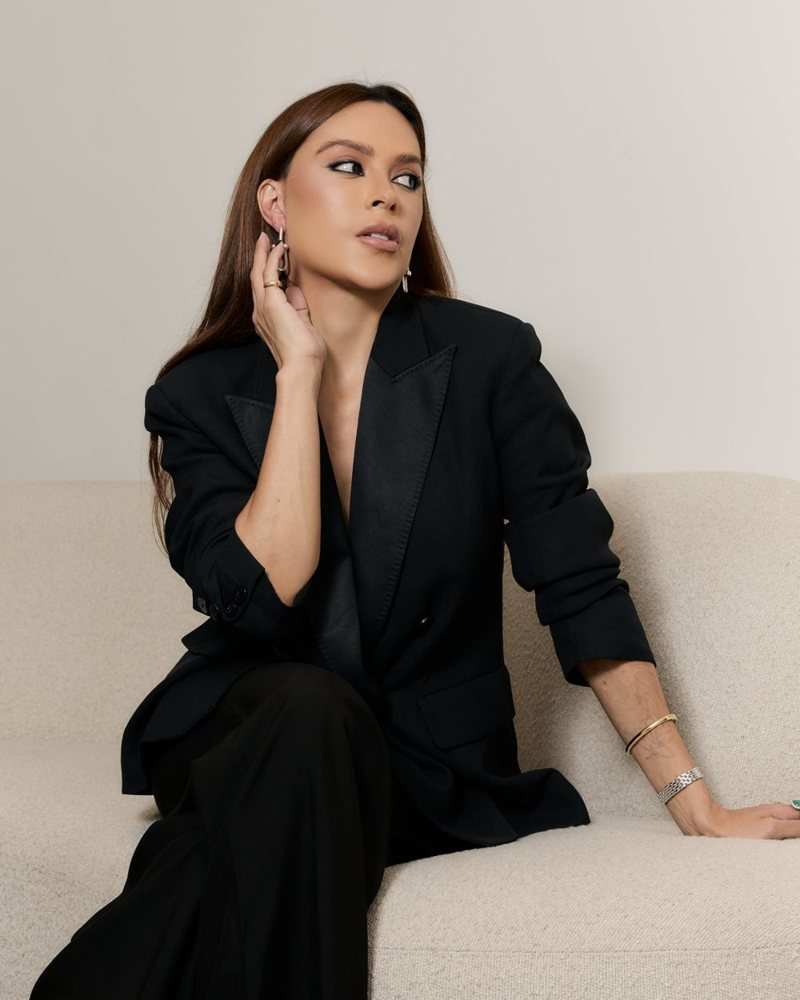
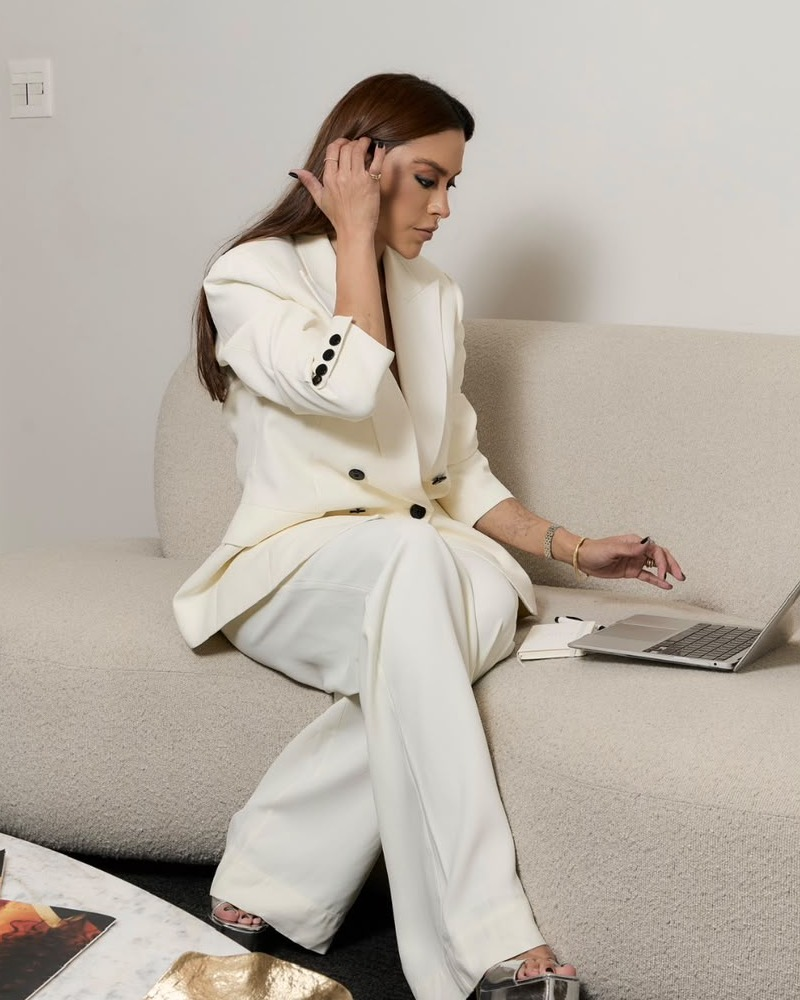
Links: cards levam às páginas dos produtos, consultoria com foto nova e 1 ou 2 encontros, WhatsApp e área de membros

diff --git a/index.html b/index.html
@@ -4,7 +4,7 @@
 <meta charset="utf-8">
 <meta name="viewport" content="width=device-width, initial-scale=1, viewport-fit=cover">
 <title>Vanessa Ferreira · Método Vértice</title>
-<meta name="description" content="Vértice Vox, Vértice Start e Box de Consultoria com Vanessa Ferreira.">
+<meta name="description" content="Vértice Vox, Vértice Start (curso de vendas para a área da beleza) e Box de Consultoria com Vanessa Ferreira.">
 <meta name="theme-color" content="#F6F1EA">
 <link rel="icon" href="favicon.png">
 <link rel="preconnect" href="https://fonts.googleapis.com">
@@ -16,13 +16,13 @@
 <script>
 const CONFIG = {
   links: {
-    vox:          "https://pay.kiwify.com.br/8AHzihk",   // Vértice Vox · Anual (R$ 97/ano)
-    start:        "https://lpvanessa.vercel.app/",       // página de vendas do Vértice Start
-    consultoria1: "https://pay.kiwify.com.br/qoEN0tP",   // Box de Consultoria · 1 sessão (R$ 1.997)
-    consultoria3: "https://pay.kiwify.com.br/sJmDqPg"    // Box de Consultoria · 3 sessões (R$ 2.997)
+    vox:         "https://verticevox.vercel.app",     // página do Vértice Vox
+    start:       "https://lpvanessa.vercel.app",      // página de vendas do Vértice Start
+    consultoria: "https://boxconsuloria.vercel.app",  // página do Box de Consultoria
+    membros:     "https://members.kiwify.com/?club=69885ccc-2843-47e7-b2cb-986d9aeded2a"  // área de membros
   },
   instagram: "https://instagram.com/",  // @ da Vanessa
-  whatsapp:  "https://wa.me/55SEUNUMERO",
+  whatsapp:  "https://wa.me/553192289577",
   metaPixelId: ""                        // opcional
 };
 </script>
@@ -62,19 +62,16 @@ h1 span{color:var(--goldd)}
 .card:hover .cta svg{transform:translateX(3px)}
 .card:active{transform:scale(.985)}
 .card:focus-visible{outline:2px solid var(--gold);outline-offset:3px}
-.c-vox img{object-position:62% 30%}
-.c-start img{object-position:60% 15%}
-.c-cons img{object-position:55% 18%}
+.c-vox img{object-position:50% 30%}
+.c-start img{object-position:50% 15%}
+.c-cons img{object-position:50% 38%}
+.members{display:block;margin-top:22px;text-align:center;font-size:13px;color:var(--muted);text-decoration:underline;text-underline-offset:3px}
+.members:hover{color:var(--esp)}
 
 .social{margin-top:30px;display:flex;justify-content:center;gap:12px;opacity:0;animation:up .7s .62s forwards}
 .social a{width:44px;height:44px;border-radius:50%;display:grid;place-items:center;border:1px solid var(--line);background:var(--white);color:var(--goldd);transition:.3s}
 .social a:hover{background:var(--esp);color:var(--white);border-color:var(--esp)}
 .social svg{width:19px;height:19px}
-.ctas{display:flex;flex-wrap:wrap;gap:8px 16px;margin-top:12px}
-.ctas .cta{margin-top:0;text-decoration:none}
-.ctas .cta:hover svg{transform:translateX(3px)}
-.members{display:block;margin-top:22px;text-align:center;font-size:13px;color:var(--muted);text-decoration:underline;text-underline-offset:3px}
-.members:hover{color:var(--esp)}
 footer{margin-top:24px;text-align:center;font-family:'Bodoni Moda',serif;font-style:italic;color:var(--goldd);font-size:16px}
 @keyframes up{to{opacity:1;transform:none}}
 @media (prefers-reduced-motion:reduce){*{animation:none!important;opacity:1!important;transform:none!important;transition:none!important}}
@@ -87,7 +84,7 @@ footer{margin-top:24px;text-align:center;font-family:'Bodoni Moda',serif;font-st
     <img class="avatar" src="avatar.jpg" alt="Vanessa Ferreira">
     <div class="kicker">Método Vértice</div>
     <h1>Vanessa <span>Ferreira</span></h1>
-    <p class="bio">Presença, posicionamento e conteúdo que vende. Escolha por onde começar.</p>
+    <p class="bio">Vendas para a área da beleza. Escolha por onde começar.</p>
   </header>
 
   <nav class="links">
@@ -105,29 +102,26 @@ footer{margin-top:24px;text-align:center;font-family:'Bodoni Moda',serif;font-st
       <div class="in">
         <span class="tag">Curso</span>
         <h2>Vértice <em>Start</em></h2>
-        <p>O passo a passo para construir sua presença.</p>
+        <p>O curso de vendas para a área da beleza.</p>
         <span class="cta">Conhecer o curso <svg viewBox="0 0 16 16" fill="none" stroke="currentColor" stroke-width="2" stroke-linecap="round"><path d="M3 8h10M9 4l4 4-4 4"/></svg></span>
       </div>
     </a>
-    <div class="card c-cons">
+    <a class="card c-cons" data-link="consultoria" target="_blank" rel="noopener">
       <img src="consultoria.jpg" alt="" loading="lazy">
       <div class="in">
         <span class="tag">Individual</span>
         <h2>Box de<br><em>Consultoria</em></h2>
-        <p>Um olhar estratégico e personalizado para você.</p>
-        <div class="ctas">
-          <a class="cta" data-link="consultoria1" target="_blank" rel="noopener">1 sessão · R$ 1.997 <svg viewBox="0 0 16 16" fill="none" stroke="currentColor" stroke-width="2" stroke-linecap="round"><path d="M3 8h10M9 4l4 4-4 4"/></svg></a>
-          <a class="cta" data-link="consultoria3" target="_blank" rel="noopener">3 sessões · R$ 2.997 <svg viewBox="0 0 16 16" fill="none" stroke="currentColor" stroke-width="2" stroke-linecap="round"><path d="M3 8h10M9 4l4 4-4 4"/></svg></a>
-        </div>
+        <p>Um olhar estratégico e personalizado para você. Opções de 1 ou 2 encontros.</p>
+        <span class="cta">Quero agendar <svg viewBox="0 0 16 16" fill="none" stroke="currentColor" stroke-width="2" stroke-linecap="round"><path d="M3 8h10M9 4l4 4-4 4"/></svg></span>
       </div>
-    </div>
+    </a>
   </nav>
 
   <div class="social">
     <a data-social="instagram" target="_blank" rel="noopener" aria-label="Instagram"><svg viewBox="0 0 24 24" fill="none" stroke="currentColor" stroke-width="1.8"><rect x="3" y="3" width="18" height="18" rx="5"/><circle cx="12" cy="12" r="4"/><circle cx="17.5" cy="6.5" r="1" fill="currentColor" stroke="none"/></svg></a>
     <a data-social="whatsapp" target="_blank" rel="noopener" aria-label="WhatsApp"><svg viewBox="0 0 24 24" fill="none" stroke="currentColor" stroke-width="1.8" stroke-linejoin="round"><path d="M4 20l1.3-3.8A8 8 0 1 1 8 19z"/><path d="M9 9.2c.2 2.4 2.6 5 5.4 5.6l1.2-1.3-1.8-.9-.8.8c-1-.4-2-1.4-2.4-2.4l.8-.8-.9-1.8z" fill="currentColor" stroke="none"/></svg></a>
   </div>
-  <a class="members" href="https://members.kiwify.com/" target="_blank" rel="noopener">Já é aluna? Acesse a área de membros</a>
+  <a class="members" data-link="membros" target="_blank" rel="noopener">Já é aluna? Acesse a área de membros</a>
   <footer>Método Vértice</footer>
 </main>
 <script>
